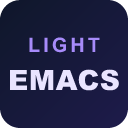
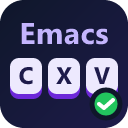
Improve isearch usability and marketplace presentation
- Ctrl+S / Ctrl+R now dispatch on focus instead of findWidgetVisible:
  from the editor they always focus the Find input (even when the widget
  is still open from a previous search), and repeat the search only while
  the Find input has focus — matching Emacs' C-s C-s.
- Ctrl+G inside the Find input closes the widget and returns to the
  editor, leaving the caret on the current match (previously it fell
  through to Go to Line).
- Marketplace: English description leading with "never breaks
  copy-paste", Keymaps as the primary category, extra search keywords.
- New icon: "Emacs" over C / X / V keycaps with a check mark.
- README: absolute GitHub URLs so links work on the Marketplace page.

diff --git a/CLAUDE.md b/CLAUDE.md
@@ -54,7 +54,9 @@ This extension contributes Emacs-style keybindings that intentionally override s
 - **`setContext` is write-only.** There is no `vscode.*` API to read a context key's current value back. `extension.ts` therefore mirrors every state change (mark active, Ctrl+X prefix active, settings-derived groups) via `executeCommand('setContext', ...)` immediately after updating its own in-memory state — never assume you can "read" a context key.
 - **Why `Ctrl+X` is a hand-rolled prefix instead of a native VS Code chord keybinding**: registering `ctrl+x ctrl+f` as a native chord would make VS Code permanently swallow bare `Ctrl+X` (Cut) whenever the second key isn't pressed, with no fallback to the shadowed single-key command — a confirmed, open VS Code limitation ([microsoft/vscode#140226](https://github.com/microsoft/vscode/issues/140226)). `src/ctrlXPrefix.ts` works around this with its own short timeout window and an explicit fallback to `editor.action.clipboardCutAction`. Follow-up chords currently dispatched through it: `Ctrl+F` (go to file), `Space` (rectangle mark), `Ctrl+S` (save).
 - **`Ctrl+S` is dual-purpose** — bare `Ctrl+S` triggers incremental search (`actions.find` / `editor.action.nextMatchFindAction` depending on `findWidgetVisible`), but the *same physical key* is also the `Ctrl+X` follow-up for Save. Both sets of keybindings for `ctrl+s` in `package.json` include `&& !lightEmacsBindings.ctrlXPrefixActive` / `&& lightEmacsBindings.ctrlXPrefixActive` respectively so they never both match at once — mirrors the same pattern already used for `ctrl+f` (go-to-file vs forward-char). `Ctrl+R` mirrors the same open/next-vs-previous shape (`actions.find` / `editor.action.previousMatchFindAction`) for isearch-backward.
-- **The `findWidgetVisible`-gated rows for `Ctrl+S`/`Ctrl+R` deliberately omit `editorTextFocus`.** Once the Find widget's input has focus, `editorTextFocus` is false (focus moved off the Monaco editor's text area onto the widget's own input element) — a keybinding requiring `editorTextFocus` there will never fire, silently falling through to VS Code's default for that key (e.g. `Ctrl+R`'s "Switch Window/Workspace", or "reload the Extension Development Host" in a dev host window). This was hit during development: it initially looked like `Ctrl+R` was an unoverridable, EDH-reserved key, but that was a red herring — it was this same `editorTextFocus` bug (the binding simply never matched while the find input had focus), not a real VS Code limitation. Once `editorTextFocus` was dropped from the `findWidgetVisible` rows, `Ctrl+R` was overridden correctly like any other extension-contributed keybinding, in the EDH included. Only the "open search" rows (`!findWidgetVisible`) require `editorTextFocus`, since those are meant to trigger from the editor itself.
+- **The `findWidgetVisible`-gated rows for `Ctrl+S`/`Ctrl+R` deliberately omit `editorTextFocus`.** Once the Find widget's input has focus, `editorTextFocus` is false (focus moved off the Monaco editor's text area onto the widget's own input element) — a keybinding requiring `editorTextFocus` there will never fire, silently falling through to VS Code's default for that key (e.g. `Ctrl+R`'s "Switch Window/Workspace", or "reload the Extension Development Host" in a dev host window). This was hit during development: it initially looked like `Ctrl+R` was an unoverridable, EDH-reserved key, but that was a red herring — it was this same `editorTextFocus` bug (the binding simply never matched while the find input had focus), not a real VS Code limitation. Once `editorTextFocus` was dropped from the `findWidgetVisible` rows, `Ctrl+R` was overridden correctly like any other extension-contributed keybinding, in the EDH included. The next/previous-match rows are therefore gated on `findWidgetVisible && !editorTextFocus`, and `!editorTextFocus` is load-bearing in a second way: see the "repeat search" note below.
+- **`Ctrl+S`/`Ctrl+R` dispatch on *focus*, not on `findWidgetVisible`.** `findWidgetVisible` stays true after you click or `Ctrl+G` back into the editor — the widget is still open, just not focused. Gating next/previous-match on `findWidgetVisible` alone therefore made `Ctrl+S` from the editor silently jump matches with the Find input never focused, so the query couldn't be retyped and a fresh search was impossible (reported by a user). The `actions.find` "open search" rows consequently require only `editorTextFocus` (no `!findWidgetVisible`): `actions.find` both opens the widget *and* re-focuses an already-open one with its query selected, so one row covers both. The repeat-match rows add `!editorTextFocus`, which is exactly "the Find input has focus". Net behaviour from the editor is Emacs' `C-s C-s`: first press focuses the box, second press repeats the search.
+- **`Ctrl+G` needs a second row for the Find box.** `lightEmacsBindings.keyboardQuit` is `editorTextFocus`-gated, so inside the Find input it never matches and `Ctrl+G` fell through to VS Code's Go to Line — there was no keyboard-only way to quit the search Emacs-style. The second row binds the built-in `closeFindWidget` under `findWidgetVisible && !editorTextFocus && lightEmacsBindings.active` (same `!editorTextFocus` = "the Find input has focus" idiom as the repeat-match rows); it closes the widget, returns focus to the editor and leaves the caret on the current match. Note `Escape` already did this natively because VS Code's own binding uses `editorFocus` (true for the editor *or* its widgets), not `editorTextFocus` — `closeFindWidget` is reached, not shadowed. It is bound to `closeFindWidget` directly rather than routed through `keyboardQuit` so `extension.ts` stays thin; the mark/prefix state that `keyboardQuit` clears can't be set while the Find box has focus anyway.
 - **`Ctrl+K` in the integrated terminal needs its own `terminalFocus` binding.** VS Code's built-in `Ctrl+K …` chord family (`Ctrl+K Ctrl+S`, `Ctrl+K Z`, …) is matched *inside the terminal too*, because `terminal.integrated.allowChords` defaults to `true` — so bare `Ctrl+K` puts the workbench into "waiting for second key" state and never delivers `0x0B` to the shell, breaking readline's kill-line in bash. Our editor binding is `editorTextFocus`-gated and is **not** the cause. The fix is a second `ctrl+k` row bound to `workbench.action.terminal.sendSequence` with `args.text` = `\u000b`, `when: terminalFocus && lightEmacsBindings.killLine.enabled`: an extension-contributed keybinding outranks the built-in chord, so the resolver returns a complete command instead of entering chord mode, and `sendSequence` is in VS Code's default `commandsToSkipShell` so it reaches the shell. Keep `args.text` written as the `\u000b` JSON escape — a literal `0x0B` byte in `package.json` is invalid JSON.
 - **Movement keys in the integrated terminal need their own `terminalFocus` rows too, for a different reason than `Ctrl+K`.** VS Code binds `Ctrl+E` as the *secondary* keybinding of `workbench.action.quickOpen` (`C9={primary:2094 /* Ctrl+P */, secondary:[2083] /* Ctrl+E */}` in `workbench.desktop.main.js`) with **no `when` clause**, and `workbench.action.quickOpen` is in VS Code's *default* `terminal.integrated.commandsToSkipShell` list (the bundled `crt` array) — so with the terminal focused, `Ctrl+E`/`Ctrl+P` open Go to File and never deliver `0x05`/`0x10` to the shell. `Ctrl+F` is stolen the same way by `workbench.action.terminal.focusFind` (`primary:2084`, `when: terminalFocus`, also skip-shell by default). `Ctrl+A`/`Ctrl+B`/`Ctrl+N` do reach the shell natively (their defaults — `editor.action.selectAll`, `toggleSidebarVisibility`, `files.newUntitledFile` — are *not* in the skip-shell list), but all six get explicit `terminalFocus` + `sendSequence` rows anyway so terminal behaviour doesn't depend on the user's `commandsToSkipShell` config. Same `\uXXXX`-escape rule as `Ctrl+K`: never write a literal control byte into `package.json`.
 - **Manual sync risk**: the `CTX` constants in `src/contextKeys.ts`, the `contributes.configuration` property names in `package.json`, and the `when` clauses in `contributes.keybindings` (also in `package.json`) must be kept in sync by hand — `package.json` can't import TypeScript constants, and there is no automated check that catches a mismatch today.

diff --git a/README.ja.md b/README.ja.md
@@ -1,6 +1,6 @@
 # Light Emacs Bindings
 
-*[English version here → README.md](README.md)*
+*[English version here → README.md](https://github.com/Nobuyuki-Inaba/light-emacs-bindings/blob/main/README.md)*
 
 **VS CodeのEmacsキーバインド拡張機能で、コピペができなくなったことはありませんか？あるパネルでは動くのに、別の場所では効かない……そんな経験、ありませんか？**この拡張機能ではそれが起きません。コピー・カット・ペーストは常にVS Code標準のまま動きます。コピペは標準を使いましょう — この拡張機能はまさにそのために作られています。追加するのは、エディタと喧嘩しないEmacsの手癖だけです。どうしても衝突が避けられない箇所は事前にドキュメント化し、ワンクリックで無効化できるようにしています。
 
@@ -37,14 +37,18 @@
 |---|---|---|
 | `Ctrl+Space` | mark設定 — 選択を開始し、移動キーで拡張 | Trigger Suggest(手動呼び出しのみ。タイピング中の自動候補表示は影響なし) |
 | `Ctrl+X Space` | 矩形(カラム)選択トグル | *([Ctrl+X](#ctrlxの仕組み)参照)* |
-| `Ctrl+G` | keyboard-quit — mark/選択解除、`Ctrl+X` 待機のキャンセル | Go to Line(コマンドパレットから利用可) |
+| `Ctrl+G` | keyboard-quit — mark/選択解除、`Ctrl+X` 待機のキャンセル。検索欄にフォーカスがあるときはFindウィジェットを閉じる | Go to Line(コマンドパレットから利用可) |
 
 ### 検索
 
 | キー | 動作 | 上書きする既定動作 |
 |---|---|---|
-| `Ctrl+S` | インクリメンタル検索(前方) — 開始、再度押すと次候補へ | **保存**(`Ctrl+X Ctrl+S` に移動) |
-| `Ctrl+R` | インクリメンタル検索(後方) — 開始、再度押すと前候補へ | ウィンドウ/ワークスペース切り替え |
+| `Ctrl+S` | インクリメンタル検索(前方) — エディタからは検索を開く/検索欄へフォーカス、検索欄にフォーカスがある状態では次候補へ | **保存**(`Ctrl+X Ctrl+S` に移動) |
+| `Ctrl+R` | インクリメンタル検索(後方) — エディタからは検索を開く/検索欄へフォーカス、検索欄にフォーカスがある状態では前候補へ | ウィンドウ/ワークスペース切り替え |
+
+エディタから押した場合、どちらのキーも必ず検索欄にカーソルを移します(前回の検索でFindウィジェットが開いたままの場合も同様)。そのため検索語をすぐ打ち直せます。検索欄にフォーカスがある状態でもう一度押すと検索を繰り返します(`Ctrl+S` は前方、`Ctrl+R` は後方)。Emacsの `C-s C-s` と同じ挙動です。
+
+検索を抜けて編集に戻るには、検索欄にフォーカスがある状態で `Ctrl+G`(または `Escape`)を押します。Findウィジェットが閉じてエディタにフォーカスが戻り、キャレットは現在のヒット位置に残ります。
 
 ### ファイル・編集
 
@@ -160,4 +164,4 @@ VS Codeで **F5** を押すとExtension Development Hostが起動します。
 
 ## License
 
-MIT — [LICENSE](LICENSE) 参照。
+MIT — [LICENSE](https://github.com/Nobuyuki-Inaba/light-emacs-bindings/blob/main/LICENSE) 参照。

diff --git a/README.md b/README.md
@@ -1,6 +1,6 @@
 # Light Emacs Bindings
 
-*[日本語版はこちら / Japanese version here → README.ja.md](README.ja.md)*
+*[日本語版はこちら / Japanese version here → README.ja.md](https://github.com/Nobuyuki-Inaba/light-emacs-bindings/blob/main/README.ja.md)*
 
 **Ever had an Emacs keybinding extension quietly break copy-paste on you — working in one panel, dead in another? Not this one.** Copy, Cut, and Paste stay exactly as VS Code intends, always, everywhere. This extension only adds the Emacs muscle memory that doesn't fight your editor — and anywhere a conflict truly can't be avoided, it's documented up front and can be switched off in one click.
 
@@ -37,14 +37,18 @@
 |---|---|---|
 | `Ctrl+Space` | set-mark-command — start a selection, extend it by moving | Trigger Suggest (manual invocation only; auto-popups while typing are unaffected) |
 | `Ctrl+X Space` | toggle rectangle (column) selection | *(see [Ctrl+X](#how-ctrlx-works))* |
-| `Ctrl+G` | keyboard-quit — clear mark/selection, cancel a pending `Ctrl+X` | Go to Line (still on the Command Palette) |
+| `Ctrl+G` | keyboard-quit — clear mark/selection, cancel a pending `Ctrl+X`; closes the Find widget when the search box has focus | Go to Line (still on the Command Palette) |
 
 ### Search
 
 | Key | Action | Overrides |
 |---|---|---|
-| `Ctrl+S` | isearch-forward — open search, then jump to the next match on repeat | **Save** (moved to `Ctrl+X Ctrl+S`) |
-| `Ctrl+R` | isearch-backward — open search, then jump to the previous match on repeat | Switch Window/Workspace |
+| `Ctrl+S` | isearch-forward — open/focus search from the editor, then jump to the next match while the search box has focus | **Save** (moved to `Ctrl+X Ctrl+S`) |
+| `Ctrl+R` | isearch-backward — open/focus search from the editor, then jump to the previous match while the search box has focus | Switch Window/Workspace |
+
+Pressed from the editor, both keys always put the cursor in the Find box — including when the Find widget is still open from an earlier search — so you can retype the query. Pressed again with the box focused, they repeat the search (`Ctrl+S` forward, `Ctrl+R` backward), matching Emacs' `C-s C-s`.
+
+To leave the search and get back to editing without the mouse, press `Ctrl+G` (or `Escape`) while the search box has focus: the Find widget closes, focus returns to the editor, and the caret stays on the current match.
 
 ### File & editing
 
@@ -160,4 +164,4 @@ Push a `v*` tag to trigger `.github/workflows/release.yml`, which builds a `.vsi
 
 ## License
 
-MIT — see [LICENSE](LICENSE).
+MIT — see [LICENSE](https://github.com/Nobuyuki-Inaba/light-emacs-bindings/blob/main/LICENSE).
